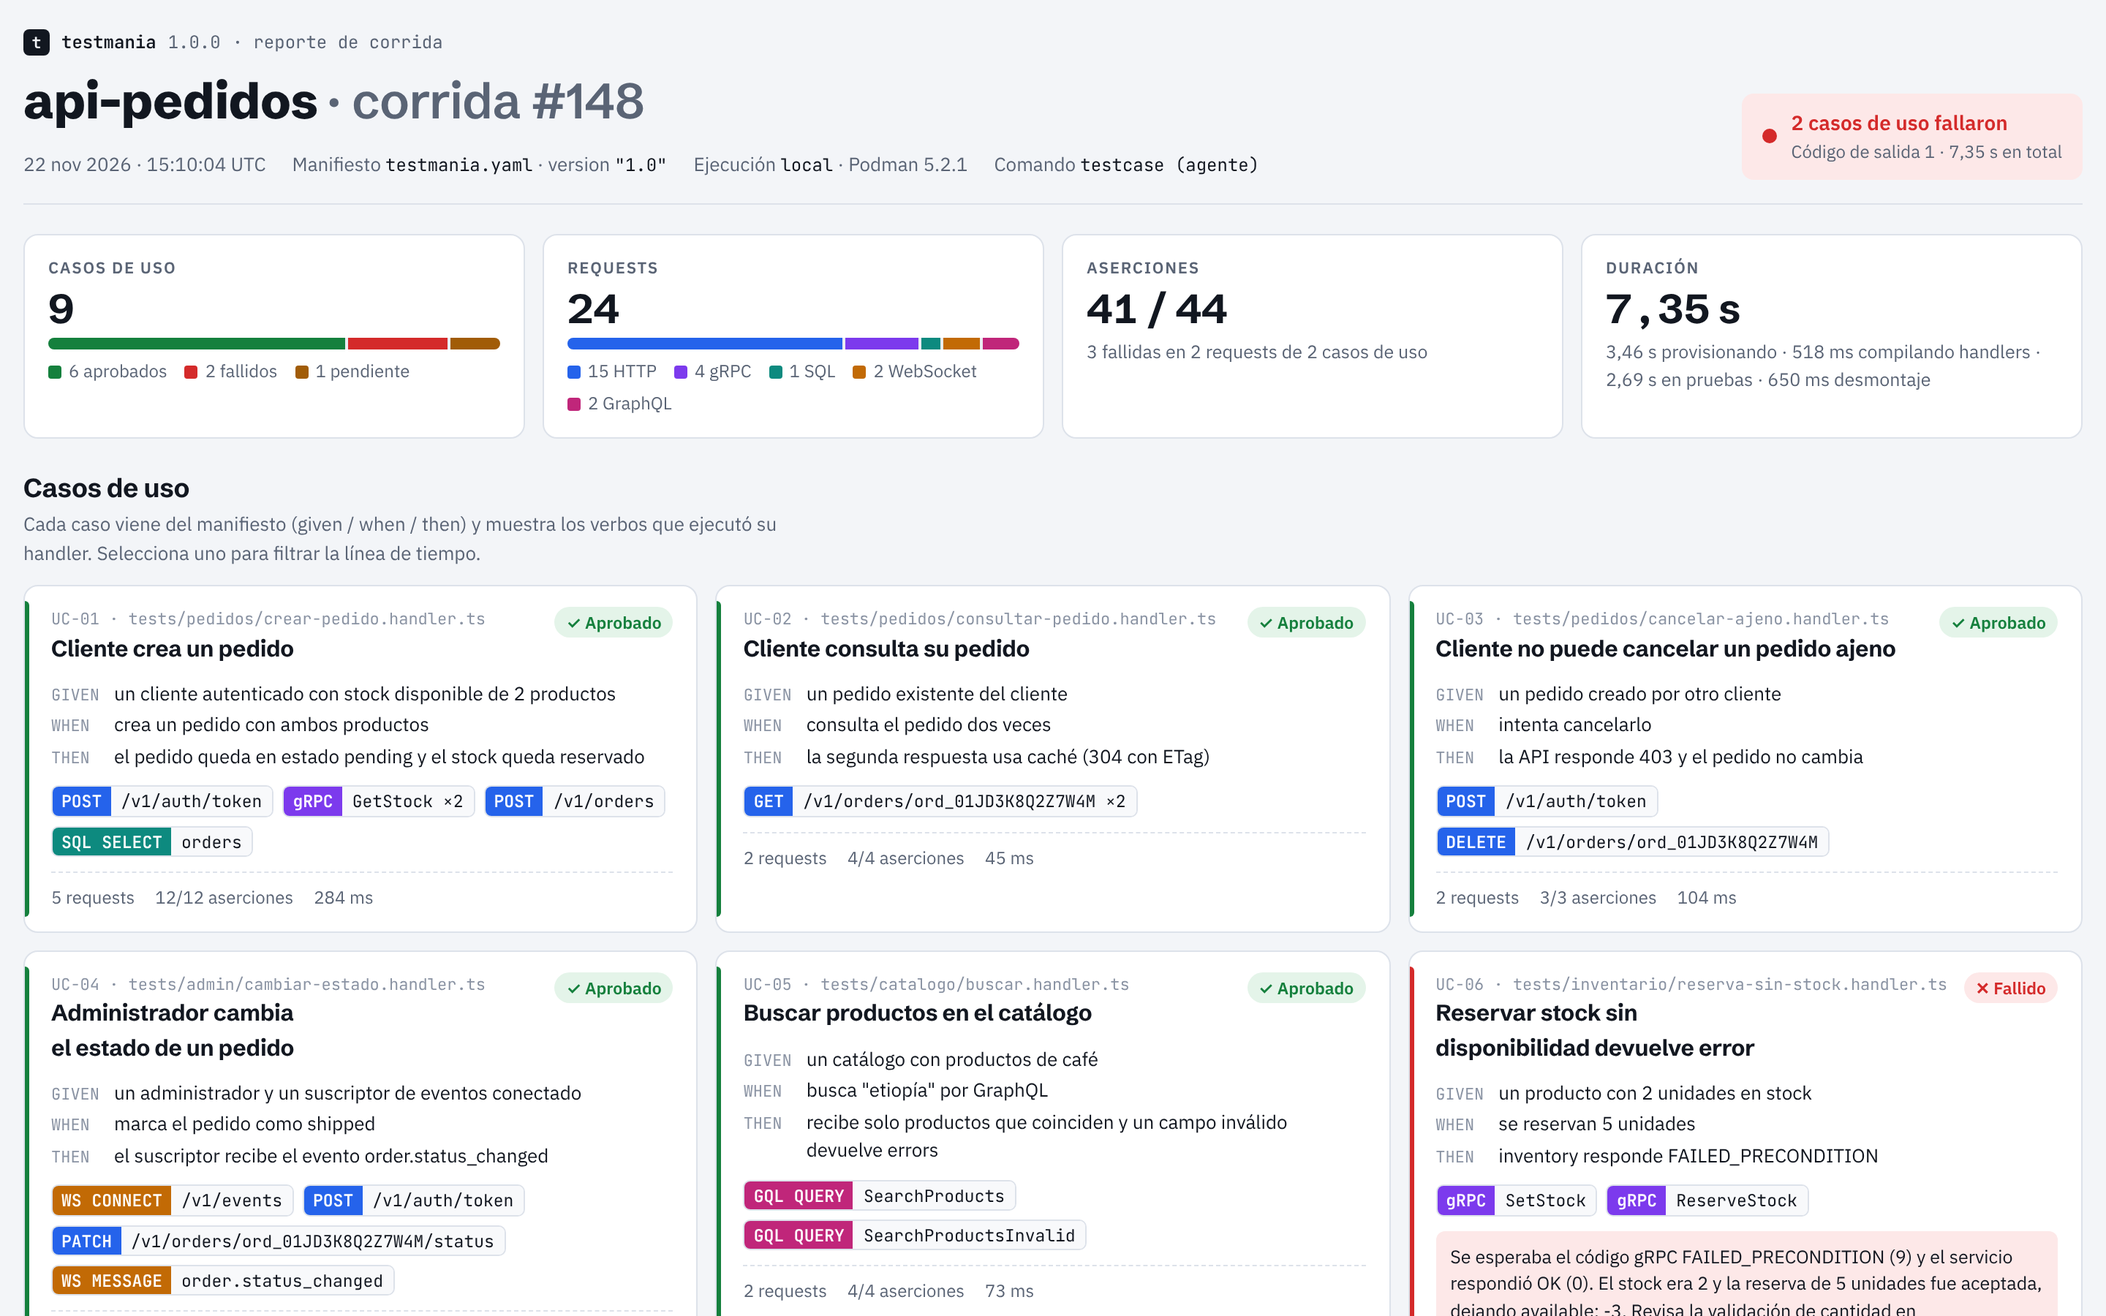
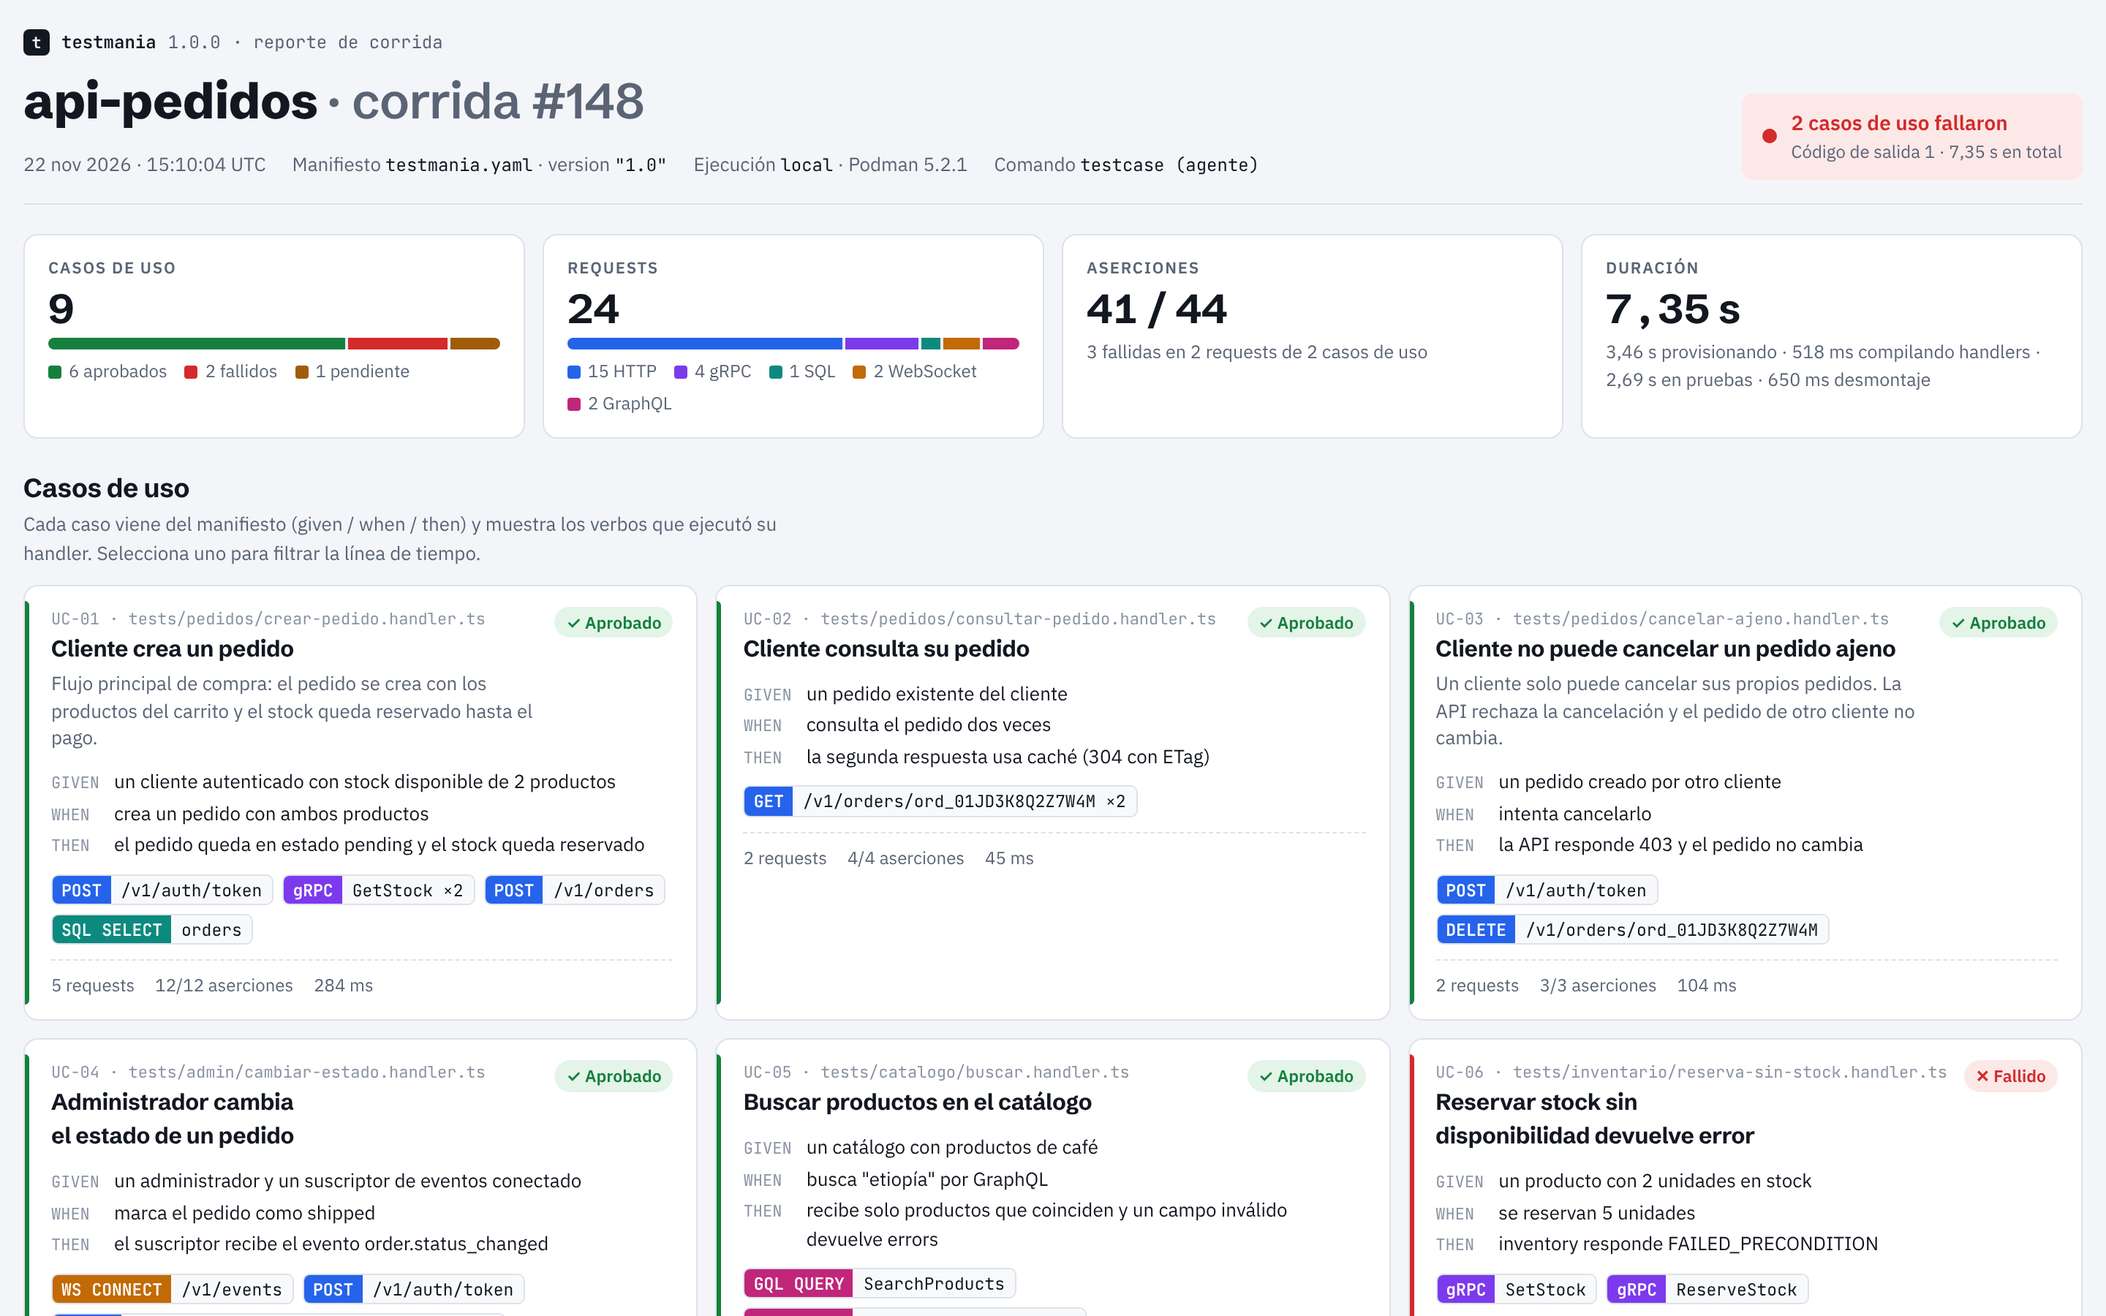
describe() para la descripción de un caso
`await describe(texto)` dentro de defineCase agrega una descripción más larga que
el título. run.ts la guarda en useCases[].description (nuevo campo opcional del
schema) y el HTML la muestra bajo el título de la tarjeta del caso. Ejemplo,
SKILL.md, README, reporte de ejemplo y capturas actualizados.

Claude-Session: https://claude.ai/code/session_01BqvTdKwTymvsyCerFysupm

diff --git a/testcase/assets/report.template.html b/testcase/assets/report.template.html
@@ -105,6 +105,7 @@ button{font:inherit;color:inherit}
 .uc-top{display:flex;gap:10px;align-items:flex-start;justify-content:space-between}
 .uc h3{font-size:15.5px;font-weight:700}
 .uc .id{font-family:var(--f-mono);font-size:11px;color:var(--faint)}
+.uc .desc{font-size:13px;color:var(--muted);margin:4px 0 0;line-height:1.45}
 .pill{display:inline-flex;align-items:center;gap:5px;font-size:11.5px;font-weight:600;padding:2px 8px;border-radius:999px;white-space:nowrap}
 .pill.pass{background:var(--pass-soft);color:var(--pass)} .pill.fail{background:var(--fail-soft);color:var(--fail)} .pill.pend{background:var(--pend-soft);color:var(--pend)}
 .gwt{display:grid;grid-template-columns:auto 1fr;gap:2px 10px;font-size:13px;margin:0}
@@ -337,7 +338,7 @@ const ART_LABEL = {migration:"migración", seed:"seed", proto:"proto", stub:"stu
 const ENV_SRC = {inferred:" (inferida)", "service-ref":""};
 
 const UCS = REPORT.useCases.map(u=>({
-  id:u.id, title:u.title, s:{passed:"pass",failed:"fail",pending:"pend"}[u.status], file:u.handler.file,
+  id:u.id, title:u.title, desc:u.description, s:{passed:"pass",failed:"fail",pending:"pend"}[u.status], file:u.handler.file,
   given:u.given, when:u.when, then:u.then,
   explain: u.failure ? escT(u.failure.explanation) : undefined,
   pending: u.pending ? (u.pending.message || u.pending.reason) : undefined,
@@ -508,7 +509,7 @@ function renderUCs(){
     const pill = {pass:'<span class="pill pass">✓ Aprobado</span>',fail:'<span class="pill fail">✕ Fallido</span>',pend:'<span class="pill pend">○ Pendiente</span>'}[u.s];
     const verbs = verbsOf(u.id).map(v=>`<span class="verb" style="--pc:${PROTO[v.proto].color}"><span class="m">${esc(v.label)}</span><span class="p">${esc(v.path)}${v.n>1?" ×"+v.n:""}</span></span>`).join("");
     return `<button class="uc" data-s="${u.s}" data-uc="${u.id}" aria-pressed="${state.uc===u.id}">
-      <div class="uc-top"><div><div class="id">${u.id} · ${esc(u.file)}</div><h3>${esc(u.title)}</h3></div>${pill}</div>
+      <div class="uc-top"><div><div class="id">${u.id} · ${esc(u.file)}</div><h3>${esc(u.title)}</h3>${u.desc?`<p class="desc">${esc(u.desc)}</p>`:""}</div>${pill}</div>
       <dl class="gwt"><dt>given</dt><dd>${esc(u.given)}</dd><dt>when</dt><dd>${esc(u.when)}</dd><dt>then</dt><dd>${esc(u.then)}</dd></dl>
       ${verbs?`<div class="verbs">${verbs}</div>`:""}
       ${u.explain?`<div class="explain">${u.explain}<small>Explicación generada por testmania a partir de las aserciones, sin IA.</small></div>`:""}

diff --git a/testcase/assets/workspace/testcase.ts b/testcase/assets/workspace/testcase.ts
@@ -15,7 +15,7 @@
  *     await then("la API responde 403", () => check("status == 403", res.status(), 403, { expectedFailure: true }));
  *   });
  *
- * Todo se usa con await: defineCase, title, id, given, when y then. Al cargar el archivo, defineCase recorre su función
+ * Todo se usa con await: defineCase, title, describe, id, given, when y then. Al cargar el archivo, defineCase recorre su función
  * sin ejecutar los pasos para registrar el título y los pasos. Al correr el caso la ejecuta de nuevo: cada paso corre
  * en orden y `await given(…)` devuelve lo que devuelve su función. Dentro de un paso se usan las utilidades importadas
  * (`check`, `ensure`, `notation`, `page`, `vars`) y los métodos de sus servicios.
@@ -107,6 +107,8 @@ export interface CaseDefinition {
   /** Id estable del caso: UC-01, UC-02… */
   id: string;
   title: string;
+  /** Descripción del caso, más larga que el título: contexto, reglas de negocio, por qué importa. */
+  description?: string;
   given: string;
   when: string;
   then: string;
@@ -121,6 +123,7 @@ export interface CaseDefinition {
 interface Draft {
   id?: string;
   title?: string;
+  description?: string;
   annotations: Annotations;
   steps: CaseStep[];
   /** `vars` mientras se registran los pasos. */
@@ -197,6 +200,7 @@ export function defineCase(body: () => unknown | Promise<unknown>): Promise<Case
     const def: CaseDefinition = {
       id: d.id ?? "",
       title: d.title,
+      ...(d.description ? { description: d.description } : {}),
       given: join("given"),
       when: join("when"),
       then: join("then"),
@@ -234,6 +238,17 @@ export async function title(value: Text): Promise<void> {
   if (!d) return;
   if (d.title) throw new Error("title() se declara una sola vez por caso.");
   d.title = text(value, "title");
+}
+
+/**
+ * Descripción del caso, más larga que el título: el contexto, la regla de negocio o por qué importa.
+ * Opcional, una vez por caso. Acepta un texto o una función que lo devuelve. Aparece en el reporte bajo el título.
+ */
+export async function describe(value: Text): Promise<void> {
+  const { d } = draftOrRun("describe");
+  if (!d) return;
+  if (d.description) throw new Error("describe() se declara una sola vez por caso.");
+  d.description = text(value, "describe");
 }
 
 /** Id del caso (UC-NN). Opcional: por defecto sale del nombre del archivo. */

diff --git a/tests/e2e.test.ts b/tests/e2e.test.ts
@@ -94,13 +94,14 @@ describe("flujo completo", { skip: chromiumError ?? false, timeout: 300_000 }, (
     proxyPort = await new Promise<number>((ok) => probe.listen(0, "127.0.0.1", () => ok((probe.address() as AddressInfo).port)));
     await new Promise((ok) => probe.close(ok));
 
-    const header = `import { defineCase, defineService, sensitive, id, title, given, when, then, notation, check, ensure, page, vars } from "../testcase.ts";
+    const header = `import { defineCase, defineService, sensitive, id, title, describe, given, when, then, notation, check, ensure, page, vars } from "../testcase.ts";
 export const api = await defineService({ name: "api", endpoint: "http://127.0.0.1:${apiPort}", health: "GET /healthz" });
 `;
     p = project({
       "UC-01.case.ts": `${header}
 await defineCase(async () => {
   await title("Cliente no puede cancelar un pedido ajeno");
+  await describe("Un cliente solo cancela sus propios pedidos.");
   notation("tenant", "tienda-norte");
 
   const token = await given("un pedido creado por María", async () => {
@@ -196,6 +197,8 @@ await defineCase(async () => {
     assert.equal(rep.run.number, 2);
     assert.deepEqual(rep.useCases.map((u: any) => u.id), ["UC-01", "UC-02", "UC-03"]);
     assert.equal(rep.useCases[1].handler.file, "cases/propios.case.ts");
+    assert.equal(rep.useCases[0].description, "Un cliente solo cancela sus propios pedidos.");
+    assert.equal(rep.useCases[1].description, undefined, "sin describe() no hay description");
     const sens = join(p.tc, "run-sensitive.json");
     assert.equal(statSync(sens).mode & 0o777, 0o600);
     assert.deepEqual(readJson(sens).values.sort(), [PASSWORD, TOKEN].sort());
@@ -312,6 +315,7 @@ describe("report.html en el navegador", { skip: chromiumError ?? false, timeout:
       const example = readJson(json);
       const text = await page.locator("body").innerText();
       for (const uc of example.useCases) assert.ok(text.includes(uc.title), `no se ve "${uc.title}"`);
+      for (const uc of example.useCases.filter((u: any) => u.description)) assert.ok(text.includes(uc.description), `no se ve la descripción de ${uc.id}`);
       assert.deepEqual(errors, []);
     } finally {
       await browser.close();

diff --git a/tests/unit-library.test.ts b/tests/unit-library.test.ts
@@ -13,6 +13,7 @@ import {
   declaredServices,
   defineCase,
   defineService,
+  describe as describeCase,
   isHttpService,
   serviceKind,
   encodeHeaderJson,
@@ -75,6 +76,7 @@ describe("defineCase", () => {
     const def = await defineCase(async () => {
       await id("UC-10");
       await title(() => "Título " + "calculado");
+      await describeCase("  Contexto del caso: por qué importa.  ");
       const pedido = await given("un pedido", async () => ((ran = true), { id: "ord_1" }));
       // Al registrar, el valor de un paso acepta propiedades y llamadas sin fallar
       const ruta = `/v1/orders/${pedido.id}`;
@@ -85,6 +87,7 @@ describe("defineCase", () => {
     assert.equal(ran, false, "los pasos no corren al registrar");
     assert.equal(def.id, "UC-10");
     assert.equal(def.title, "Título calculado");
+    assert.equal(def.description, "Contexto del caso: por qué importa.");
     assert.equal(def.given, "un pedido");
     assert.equal(def.then, "responde 403 y el pedido sigue pending");
     assert.deepEqual(
@@ -119,6 +122,8 @@ describe("defineCase", () => {
     ["sin then", async () => (await title("x"), await given("a"), await when("b")), /falta al menos un then\(\)/],
     ["title dos veces", async () => (await title("x"), await title("y")), /una sola vez/],
     ["title vacío", () => title("  "), /texto no vacío/],
+    ["describe dos veces", async () => (await title("x"), await describeCase("a"), await describeCase("b")), /describe\(\) se declara una sola vez/],
+    ["describe vacío", () => describeCase(""), /texto no vacío/],
     ["defineCase anidado", () => defineCase(async () => {}), /no se puede anidar/],
     ["paso con segundo argumento inválido", async () => (await title("x"), await given("a", "no" as any)), /debe ser una función/],
     ["request fuera de un paso", async () => (await title("x"), page()), /solo funciona dentro de un paso/],

diff --git a/testcase/assets/workspace/examples/UC-01.case.ts b/testcase/assets/workspace/examples/UC-01.case.ts
@@ -1,6 +1,6 @@
 // Ejemplo: copia este archivo a cases/ y ajústalo. Un archivo por caso de uso; el id sale del nombre (UC-01).
 // El script es autocontenido: importa lo que usa y declara sus servicios.
-import { defineCase, defineService, fromEnv, sensitive, title, given, when, then, notation, check, ensure, between, page } from "../testcase.ts";
+import { defineCase, defineService, fromEnv, sensitive, title, describe, given, when, then, notation, check, ensure, between, page } from "../testcase.ts";
 
 // Servicio URL que ya existe: sus requests pasan por el proxy de evidencia.
 const api = await defineService({ name: "api", endpoint: "https://api.example.com", health: "GET /healthz" });
@@ -32,6 +32,7 @@ const pedidos = await defineService({
 
 await defineCase(async () => {
   await title(() => "Cliente no puede cancelar un pedido ajeno");
+  await describe("Un cliente solo puede cancelar sus propios pedidos. La API rechaza la cancelación y el pedido no cambia.");
   notation("tenant", "tienda-norte"); // anotación de todo el caso
   notation("db", db.name);
   notation("backend", pedidos.name);

diff --git a/tests/skill-structure.test.ts b/tests/skill-structure.test.ts
@@ -27,7 +27,7 @@ describe("SKILL.md", () => {
 
   it("documenta cada script y cada utilidad que exporta testcase.ts para los casos", () => {
     for (const f of readdirSync(SCRIPTS)) assert.ok(skillMd.includes(`scripts/${f}`), `SKILL.md no menciona scripts/${f}`);
-    for (const name of ["defineCase", "title", "id", "given", "when", "then", "defineService", "fromEnv", "sensitive", "notation", "check", "ensure", "page", "vars"])
+    for (const name of ["defineCase", "title", "describe", "id", "given", "when", "then", "defineService", "fromEnv", "sensitive", "notation", "check", "ensure", "page", "vars"])
       assert.match(skillMd, new RegExp(`\\b${name}\\b`), `SKILL.md no menciona ${name}`);
   });
 

diff --git a/testcase/assets/workspace/run.ts b/testcase/assets/workspace/run.ts
@@ -446,6 +446,8 @@ for (const { def, file } of defs) {
     invocations: uc.invocations ?? [],
     status: uc.status ?? "pending",
   });
+  if (def.description) uc.description = def.description;
+  else delete uc.description;
   delete uc.failure;
   delete uc.pending;
 }

diff --git a/testcase/SKILL.md b/testcase/SKILL.md
@@ -53,7 +53,7 @@ Los casos se escriben en `.testcase/cases/` del proyecto. No instales nada en el
 Los casos van en `.testcase/cases/*.case.ts`: un archivo por caso (`UC-NN.case.ts`) o varios casos relacionados en un archivo. **Cada script es autocontenido**: importa desde `testcase.ts` todo lo que usa y declara con `defineService` los servicios que necesita. Así, el script basta para saber qué se prueba, contra qué y cómo.
 
 ```ts
-import { defineCase, defineService, fromEnv, sensitive, title, given, when, then, notation, check, ensure, between, page } from "../testcase.ts";
+import { defineCase, defineService, fromEnv, sensitive, title, describe, given, when, then, notation, check, ensure, between, page } from "../testcase.ts";
 
 // Servicio URL que ya existe: sus requests pasan por el proxy de evidencia.
 const api = await defineService({ name: "api", endpoint: "https://api.example.com", health: "GET /healthz" });
@@ -72,9 +72,10 @@ const db = await defineService({
 // Proceso local: un comando de shell en su carpeta, sin contenedor. Con port, habla HTTP y tiene proxy local.
 const web = await defineService({ name: "web", command: "bun run dev", cwd: "./apps/web", port: 3000, dependsOn: [db], health: "GET /healthz" });
 
-// Todo se usa con await: defineService, defineCase, title, id, given, when y then.
+// Todo se usa con await: defineService, defineCase, title, describe, id, given, when y then.
 await defineCase(async () => {
   await title(() => "Cliente no puede cancelar un pedido ajeno");
+  await describe("Un cliente solo puede cancelar sus propios pedidos. La API rechaza la cancelación y el pedido no cambia.");
   notation("tenant", "tienda-norte");                 // anotación de todo el caso
 
   // Cada paso devuelve lo que devuelve su función: los datos pasan de un paso a otro sin vars.
@@ -113,6 +114,7 @@ La API completa:
 |---|---|
 | `await defineCase(async () => { … })` | Declara el caso. Al cargar el archivo, recorre su función **sin ejecutar los pasos** para registrar el título y los pasos (cada `await given(…)` devuelve un valor vacío que acepta cualquier propiedad). Al correr el caso la ejecuta de nuevo, ahora con los pasos de verdad. Un archivo puede tener varios `defineCase` (por ejemplo `pedidos.case.ts` con UC-04 y UC-05 que comparten servicios). |
 | `await title(texto)` · `await title(() => texto)` | Título del caso. Una vez por caso. |
+| `await describe(texto)` | Descripción del caso, más larga que el título: el contexto, la regla de negocio o por qué importa. Opcional, una vez por caso. Aparece en el reporte bajo el título. |
 | `await id("UC-NN")` | Si el archivo tiene un solo caso, es opcional: el id sale del nombre (`UC-03.case.ts` → `UC-03`). Si tiene varios, cada caso declara el suyo. |
 | `await given(texto, fn?)` · `await when(…)` · `await then(…)` | Pasos. Corren en el orden en que se escriben y devuelven lo que devuelve `fn`: `const login = await given("…", async () => api.post(…))`. `fn` es opcional: `await given("un pedido de María")` deja el paso solo como texto. Sin `await`, o con un paso dentro de otro, el caso falla con un mensaje claro. Los requests, `check`, `ensure` y `page()` van dentro de un paso. |
 | `await defineService({ name, endpoint, … })` | Servicio URL que ya existe (`connected`). Campos: `endpoint`, `version?`, `health?`. |

diff --git a/README.md b/README.md
@@ -45,12 +45,13 @@ persona: describe los casos
 Cada script es autocontenido: declara sus servicios y sus casos. Todo se usa con `await`, y cada paso devuelve lo que devuelve su función.
 
 ```ts
-import { defineCase, defineService, sensitive, title, given, when, then, notation, check, ensure, between } from "../testcase.ts";
+import { defineCase, defineService, sensitive, title, describe, given, when, then, notation, check, ensure, between } from "../testcase.ts";
 
 const api = await defineService({ name: "api", endpoint: "https://api.example.com", health: "GET /healthz" });
 
 await defineCase(async () => {
   await title("Cliente no puede cancelar un pedido ajeno");
+  await describe("Un cliente solo puede cancelar sus propios pedidos. La API rechaza la cancelación y el pedido no cambia.");
 
   const token = await given("Pedro inició sesión", async () => {
     const login = await api.post("/v1/auth/token", { data: { email: "pedro@acme.test", password: sensitive(process.env.PEDRO_PASSWORD) } });

diff --git a/testcase/references/report-schema.md b/testcase/references/report-schema.md
@@ -90,6 +90,7 @@ report
 |---|---|---|---|
 | `id` | string `UC-NN` | sí | Id estable del caso de uso. |
 | `title` | string | sí | Título que aparece en el manifiesto. |
+| `description` | string | no | Descripción más larga que el título: contexto, regla de negocio o por qué importa. La declara `describe()` en el caso. |
 | `status` | `passed` \| `failed` \| `pending` | sí | `pending` indica que el handler todavía no está implementado. |
 | `given` / `when` / `then` | string | sí | Texto del manifiesto, sin cambios. |
 | `handler` | `{ file, line? }` | sí | Archivo TypeScript del handler. |
@@ -1265,6 +1266,10 @@ Ejemplo recortado: 3 de 9 casos de uso, 5 de 24 requests (HTTP, SQL, WebSocket, 
         },
         "title": {
           "type": "string"
+        },
+        "description": {
+          "type": "string",
+          "description": "Descripción del caso (describe() en el script)."
         },
         "status": {
           "enum": [
